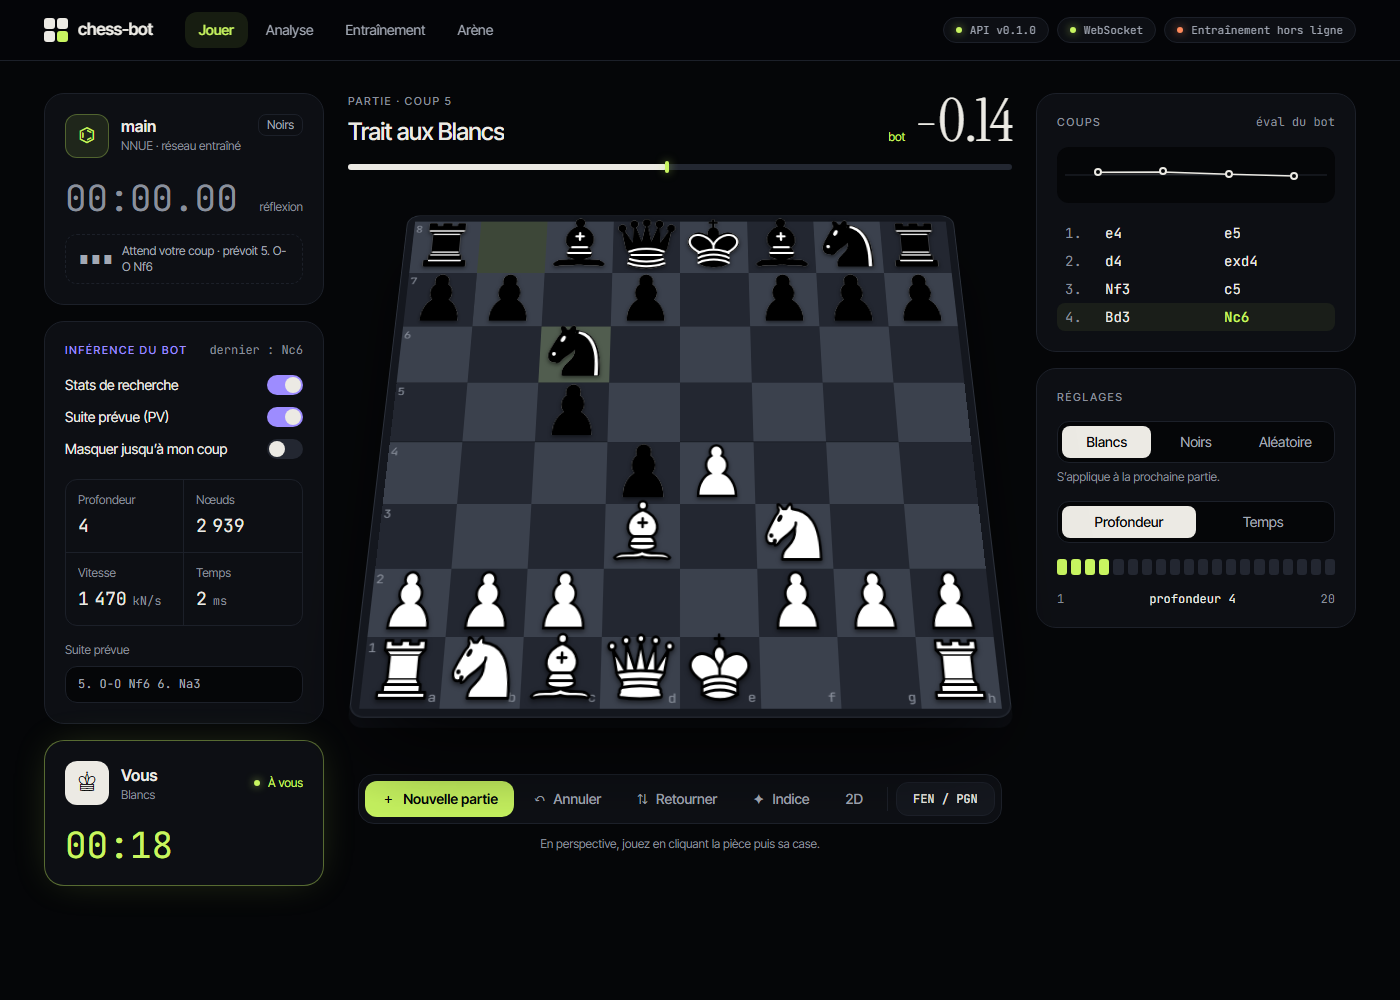
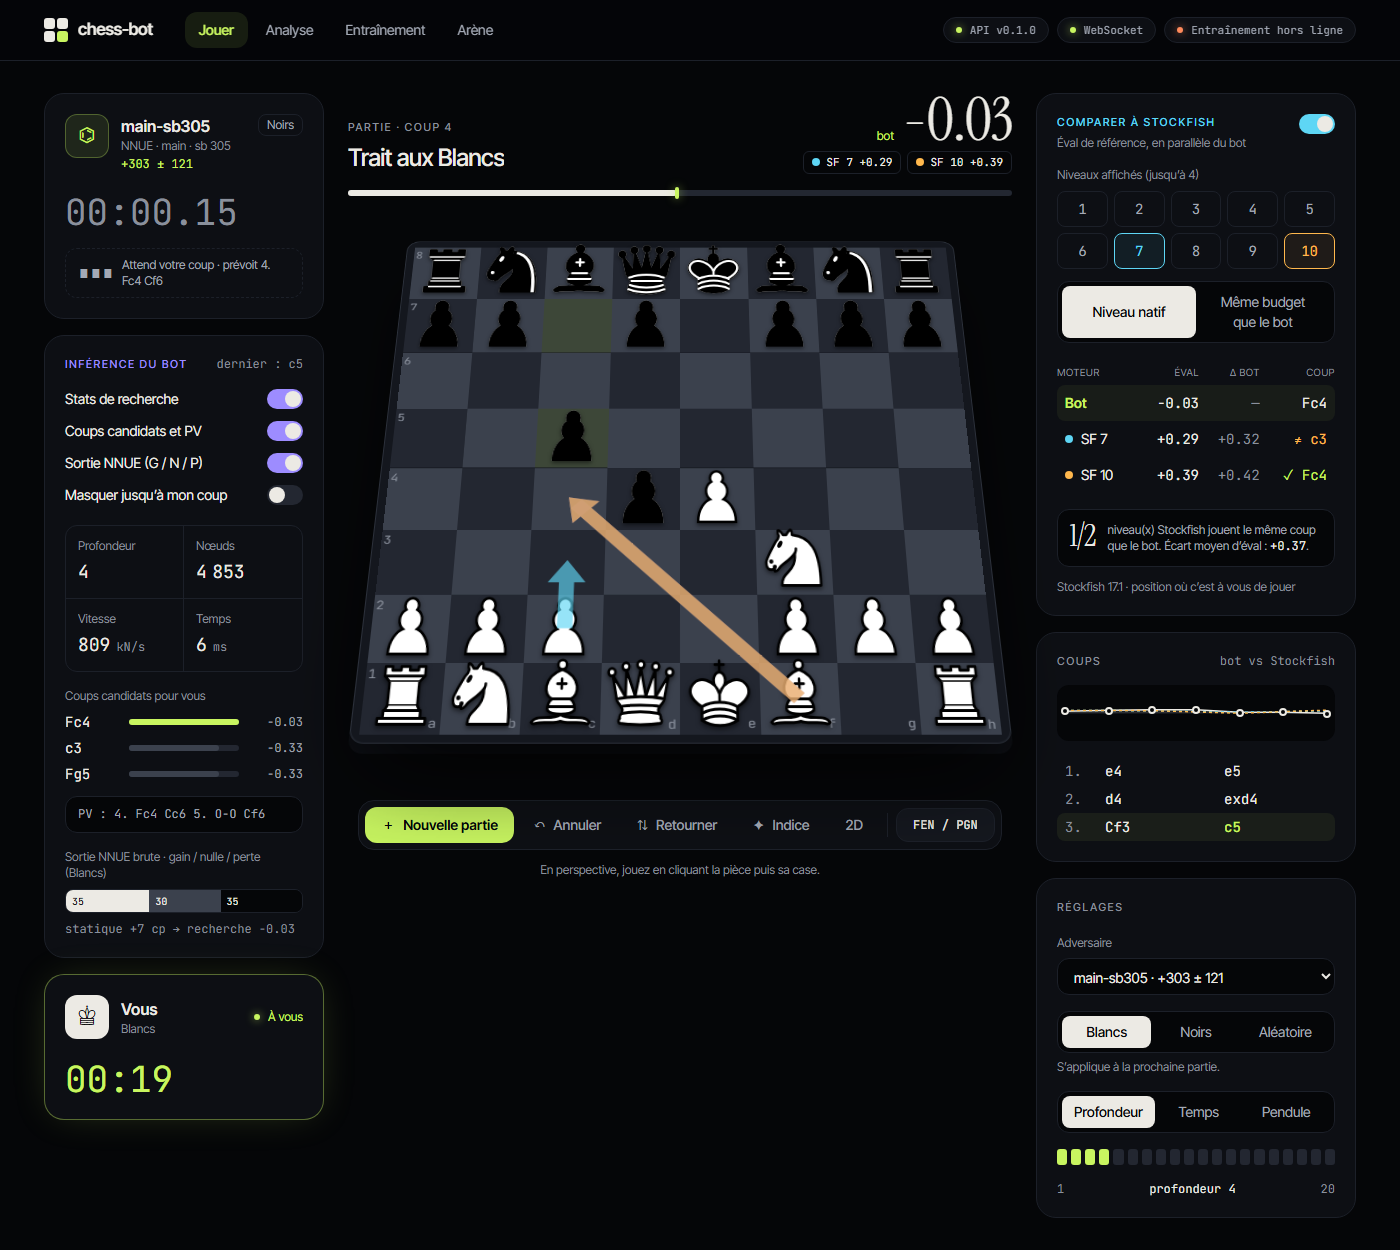
feat: self-play boards from the CLI, polish and docs
- chess-train selfplay also publishes its boards for the UI
- bigger pieces on the self-play wall, move numbers instead of plies
- the bot's Elo under its name
- README: opponents, clocks, candidates, NNUE output and map, Stockfish
  comparison, self-play wall, new endpoints and the MultiPV option;
  refreshed Play and Analysis screenshots

diff --git a/web/src/features/play/panels.tsx b/web/src/features/play/panels.tsx
@@ -59,6 +59,7 @@ export function BotCard({
         <div className="min-w-0 flex-1">
           <p className="truncate font-semibold">{name}</p>
           <p className="truncate text-xs text-dim">{subtitle}</p>
+          {elo && <p className="mt-0.5 font-mono text-xs text-signal">{elo}</p>}
         </div>
         <span className="rounded-lg border border-line px-2 py-0.5 text-xs text-mute">
           {SIDE_NAME[side]}
@@ -70,7 +71,6 @@ export function BotCard({
         >
           {clock}
         </span>
-        {elo && <span className="font-mono text-xs text-dim">{elo}</span>}
       </div>
       <p
         className={`mt-4 flex items-center gap-2 rounded-xl border border-dashed px-3 py-2 text-xs ${

diff --git a/web/src/components/MiniBoard.tsx b/web/src/components/MiniBoard.tsx
@@ -37,7 +37,7 @@ export function MiniBoard({ fen, lastMove }: { fen: string; lastMove?: string | 
         return (
           <span
             key={name}
-            className={`flex items-center justify-center text-[clamp(8px,1.4vw,15px)] leading-none ${
+            className={`flex items-center justify-center text-[clamp(9px,1.6vw,22px)] leading-none ${
               lit.includes(name) ? 'bg-signal/25' : dark ? 'bg-ink-700' : 'bg-ink-600'
             } ${white ? 'text-bone' : 'text-ink-950 [text-shadow:0_0_1px_#eceae4]'}`}
           >

diff --git a/web/src/features/training/TrainingPage.tsx b/web/src/features/training/TrainingPage.tsx
@@ -408,7 +408,7 @@ function SelfplayWall() {
               <figcaption className="mt-2 flex items-center justify-between font-mono text-[11px] text-dim">
                 <span>worker {game.worker + 1}</span>
                 <span className="flex items-center gap-1.5" title={`partie ${game.game}`}>
-                  {game.ply} ½c
+                  coup {Math.ceil(game.ply / 2)}
                   <Dot tone={live ? 'signal' : 'idle'} />
                 </span>
               </figcaption>

diff --git a/crates/chess-train/src/main.rs b/crates/chess-train/src/main.rs
@@ -344,20 +344,32 @@ fn run_selfplay(config: &Config) -> Result<()> {
     let stop = stop_on_signal()?;
     let metrics = open_metrics(config, "selfplay", "CPU".into())?;
     let stats = selfplay::SelfplayStats::default();
-    selfplay::run(
-        &config.selfplay,
-        &config.dataset_dir,
-        &config.run,
-        &stop,
-        &stats,
-        |path| {
-            metrics.event("dataset", serde_json::json!({ "file": path }));
-            metrics.update(|status| {
-                status.games = stats.games.load(Ordering::Relaxed);
-                status.positions = stats.positions.load(Ordering::Relaxed);
-            });
-        },
-    )?;
+    let done = StopFlag::new();
+    std::thread::scope(|scope| {
+        // The boards of the workers, for the UI, until self-play ends.
+        scope.spawn(|| {
+            while !done.is_stopped() {
+                metrics.write_boards(&stats.boards());
+                std::thread::sleep(std::time::Duration::from_secs(1));
+            }
+        });
+        let played = selfplay::run(
+            &config.selfplay,
+            &config.dataset_dir,
+            &config.run,
+            &stop,
+            &stats,
+            |path| {
+                metrics.event("dataset", serde_json::json!({ "file": path }));
+                metrics.update(|status| {
+                    status.games = stats.games.load(Ordering::Relaxed);
+                    status.positions = stats.positions.load(Ordering::Relaxed);
+                });
+            },
+        );
+        done.stop();
+        played
+    })?;
     metrics.update(|status| {
         status.phase = "finished".into();
         status.games = stats.games.load(Ordering::Relaxed);

diff --git a/README.md b/README.md
@@ -108,7 +108,8 @@ Sous Windows : `winget install Rustlang.Rustup Casey.Just OpenJS.NodeJS.LTS`, pl
 crates/
   chess-core/    plateau, bitboards, coups, FEN/PGN, Zobrist (aucune I/O, aucune dépendance projet)
   chess-eval/    trait Evaluator + évaluation classique (PeSTO) + inférence NNUE (AVX2 / portable)
-  chess-search/  alpha-beta générique sur Evaluator (ne voit que le trait)
+  chess-search/  alpha-beta générique sur Evaluator (ne voit que le trait), multi-PV
+  chess-stockfish/ pilote d'un Stockfish bridé en 10 niveaux (arène et comparaisons)
   chess-uci/     binaire UCI
   chess-train/   binaire : self-play, entraînement burn (CUDA ou CPU), matchs, démon de contrôle
   chess-server/  binaire : API REST (OpenAPI) + WebSocket (axum)
@@ -154,6 +155,7 @@ log_format = "pretty"   # ou "json"
 max_searches = 8        # recherches simultanées (défaut : nombre de cœurs)
 engine_hash_mb = 16     # table de transposition de chaque recherche
 eval_file = "data/weights/main.nnue"   # réseau utilisé dès qu'il existe (rechargé à chaque export)
+stockfish = "stockfish" # binaire pour les comparaisons de la page Jouer (inclus dans l'image Docker)
 # trainer_url = "http://trainer:4000"  # démon de contrôle de l'entraînement (défini en Docker)
 ```
 
@@ -163,11 +165,15 @@ Le niveau de log se règle avec `RUST_LOG` (ex. `RUST_LOG=debug`).
 
 <http://localhost:8080> (Docker) ou <http://localhost:5173> (`just web-dev`).
 
-- **Jouer** : échiquier en perspective (clic-clic) ou à plat (glisser-déposer aussi), choix de la couleur (blancs, noirs, aléatoire), niveau réglable en profondeur (1 à 20) ou en temps par coup (0,1 à 10 s), annulation de coup, **indice** (flèche du meilleur coup), import/export FEN et PGN. Autour du plateau : le réseau joué par le bot, son inférence (profondeur, nœuds, vitesse, suite prévue, masquable jusqu'à votre coup), son évaluation coup après coup et le temps de réflexion de chaque camp.
-- **Analyse** : barre d'évaluation, score, ligne principale en SAN, flèches du meilleur coup et de la réponse attendue, infos de recherche en direct (profondeur, nœuds, vitesse, remplissage de la table), nœuds par profondeur et courbe d'évaluation de la partie (un clic y amène). L'analyse est relancée à chaque coup. On navigue dans la partie avec les flèches ← → (Origine et Fin pour aller au début ou à la fin), ou en cliquant dans la liste des coups.
+- **Jouer** : échiquier en perspective (clic-clic) ou à plat (glisser-déposer aussi), choix de l'**adversaire** (réseau en service, PeSTO ou un bot sauvegardé, aussi depuis l'Arène), de la couleur (blancs, noirs, aléatoire) et du niveau : profondeur (1 à 20), temps par coup (0,1 à 10 s) ou **pendule** (1 + 0 à 15 + 10 : le bot gère son temps comme en partie réelle, la chute du drapeau perd). Annulation de coup, **indice** (flèche du meilleur coup), import/export FEN et PGN. Autour du plateau :
+  - l'inférence du bot (profondeur, nœuds, vitesse), vos **3 coups candidats** et leur PV, la **sortie NNUE brute** en gain / nulle / perte, le tout masquable jusqu'à votre coup ;
+  - la **comparaison avec Stockfish** : jusqu'à 4 niveaux, à leur budget natif ou au même budget que le bot, avec leur éval, l'écart au bot, leur coup (flèches de couleur) et leurs courbes à côté de celle du bot.
+  Les coups sont écrits en notation française (C, F, T, D, R).
+- **Analyse** : barre d'évaluation, score, les **3 lignes principales** (MultiPV) et leurs flèches, la réponse attendue, la **carte NNUE** (ce que chaque pièce apporte à l'évaluation, sur le plateau ou en grille), infos de recherche en direct (profondeur, nœuds, vitesse, remplissage de la table), nœuds par profondeur et courbe d'évaluation de la partie (un clic y amène). L'analyse est relancée à chaque coup. On navigue dans la partie avec les flèches ← → (Origine et Fin pour aller au début ou à la fin), ou en cliquant dans la liste des coups.
 - **Entraînement** : les réseaux de neurones en cartes, avec leur meilleur Elo. Si le service est arrêté, un bandeau donne la commande pour le lancer. « Nouveau réseau » ouvre un formulaire : nom, hyperparamètres (pré-remplis avec les valeurs par défaut ou celles d'un autre réseau, ou **tirés au hasard** avec « Hyperparamètres aléatoires ») et réseaux dont on réutilise les parties. Pour le réseau sélectionné, on trouve :
   - son meilleur Elo contre PeSTO et son état (device, phase, parties, positions, superbatchs, perte, vitesse, VRAM) ;
   - sa fiche technique (hyperparamètres) ;
+  - le **mur de self-play** : un plateau par worker, en direct pendant l'entraînement ;
   - son **top 5** des snapshots, chacun sauvegardable comme bot ;
   - ses courbes de perte et d'Elo contre PeSTO ;
   - les boutons « Démarrer / reprendre », « Arrêter », « Repartir de zéro » et « Supprimer » ;
@@ -188,20 +194,24 @@ L'API est **sans état** : une partie est toujours envoyée sous la forme `{ "fe
 | --- | --- |
 | `GET /api/health` | état et version du serveur |
 | `POST /api/position` | rejoue une partie : FEN, coups légaux (UCI + SAN), échec, statut, historique SAN |
-| `POST /api/engine/move` | coup du moteur, avec limites `depth`, `movetimeMs`, `nodes` (1 s par défaut) |
+| `POST /api/engine/move` | coup du moteur, avec limites `depth`, `movetimeMs`, `nodes` (1 s par défaut) ou les pendules (`whiteTimeMs`, `blackTimeMs`, `whiteIncrementMs`, `blackIncrementMs`), `multipv` (1 à 5 lignes) et `bot` (un bot sauvegardé, `classic` pour PeSTO) |
+| `POST /api/engine/explain` | évaluation statique décomposée : sortie brute, estimation gain / nulle / perte, apport de chaque pièce (NNUE) |
+| `POST /api/stockfish/compare` | coup et éval de 1 à 4 niveaux de Stockfish (`{"game", "levels", "budget"}`, `budget` absent : budget natif) ; 503 sans Stockfish |
 | `POST /api/pgn/import` | première partie d'un PGN |
 | `POST /api/pgn/export` | partie au format PGN |
 | `GET /api/engine` | évaluation utilisée par le moteur (`nnue` ou `classic`, fichier de poids) |
 | `GET /api/training?network=<nom>` | état du démon, liste des réseaux (hyperparamètres, top 5), statut et courbes du réseau demandé |
+| `GET /api/training/selfplay` | plateau de chaque worker de self-play (`live` tant qu'il tourne) |
 | `POST /api/training/start` | entraîne un réseau (`{"network": "exp", "fresh": false}`) ; 409 si un entraînement est déjà en cours |
 | `POST /api/training/stop` | arrête le pipeline après l'étape en cours (checkpoint écrit) |
 | `POST /api/training/timer` | fixe, déplace ou retire le minuteur de l'entraînement en cours (`{"minutes": 90}` ou `{"minutes": null}`) ; `maxMinutes` au démarrage |
 | `GET /api/networks/defaults` | hyperparamètres d'un nouveau réseau |
 | `POST /api/networks`, `DELETE /api/networks/{nom}` | crée un réseau (`{"name", "params"}`, 422 si un paramètre est hors bornes), le supprime |
 | `GET /api/arena` | bots et derniers tournois |
+| `GET /api/bots` | bots sauvegardés |
 | `POST /api/bots`, `DELETE /api/bots/{nom}` | sauvegarde un snapshot comme bot (`{"name", "network", "superbatch"}`), le supprime |
 | `POST /api/tournaments`, `POST /api/tournaments/stop` | lance un tournoi (`{"bots", "gamesPerPair", "limit": {"kind": "nodes" | "depth" | "time", "value"}, "threads", "pairings": [{"a", "b"}] | null}`, où `null` signifie tous les combats), l'arrête |
-| `GET /ws` | WebSocket : `analyze` puis un message `info` par profondeur et un `done` final ; `stop` interrompt l'analyse |
+| `GET /ws` | WebSocket : `analyze` (avec `limits.multipv` et `bot` en option) puis un message `info` par profondeur, avec ses lignes, et un `done` final ; `stop` interrompt l'analyse |
 
 Les scores renvoyés sont du point de vue des blancs. Les limites sont plafonnées côté serveur (profondeur 64, 60 s par coup, 10 min d'analyse), et le nombre de recherches simultanées est borné par `max_searches`.
 
@@ -316,6 +326,7 @@ Options UCI :
 | --- | --- | --- |
 | `Hash` | 16 | taille de la table de transposition, en Mio |
 | `Move Overhead` | 30 | marge en ms gardée à chaque coup pour la latence de la GUI |
+| `MultiPV` | 1 | nombre de meilleures lignes cherchées (une ligne `info … multipv k` chacune) |
 | `Clear Hash` | — | vide la table de transposition |
 | `EvalFile` | `<empty>` | réseau `.nnue` à utiliser ; vide ou invalide : évaluation classique (PeSTO). Aussi via la variable `CHESS_EVAL_FILE` |
 
